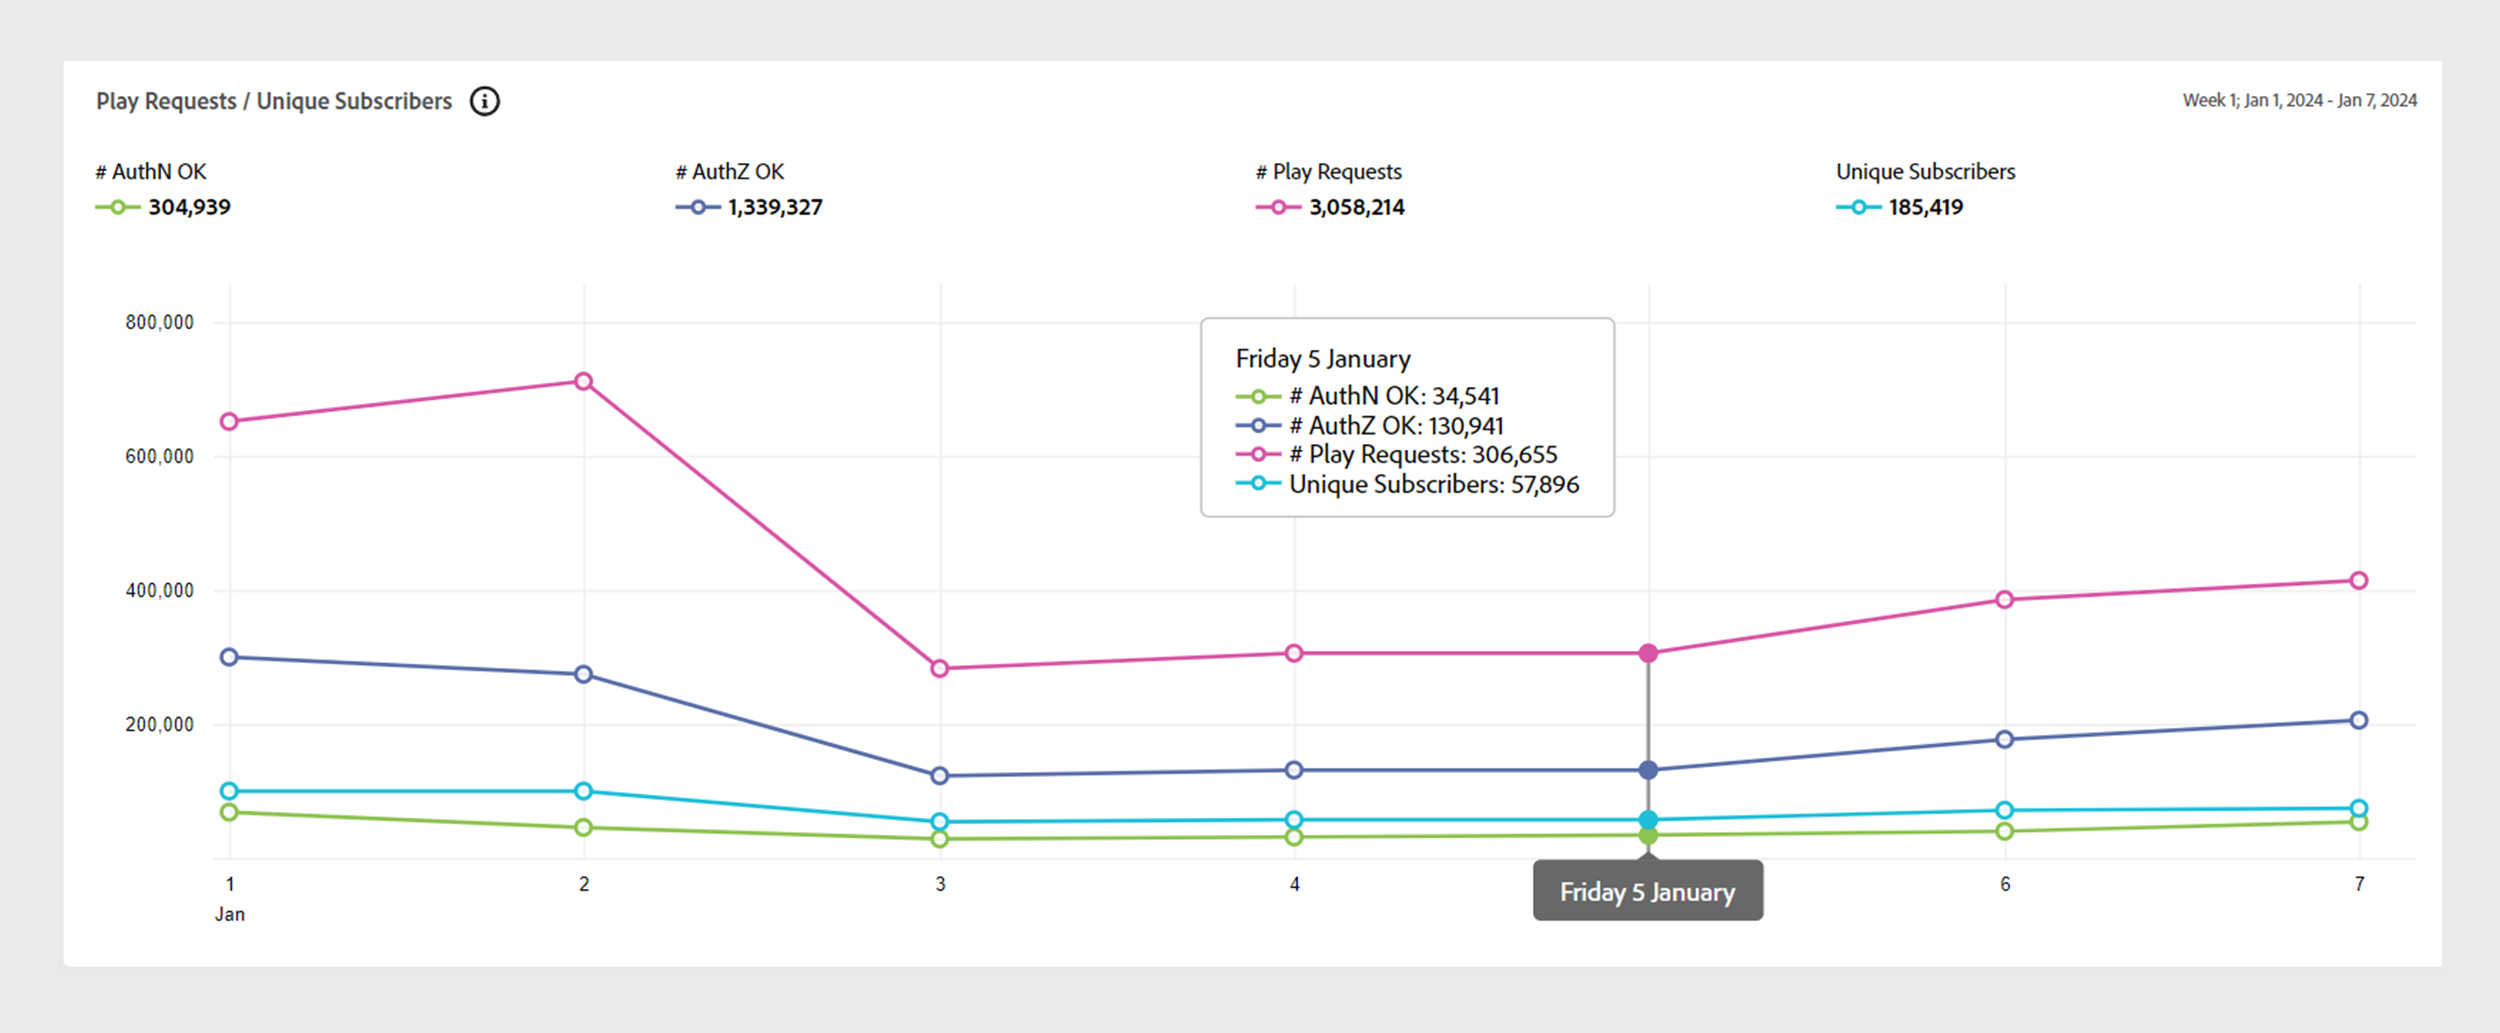
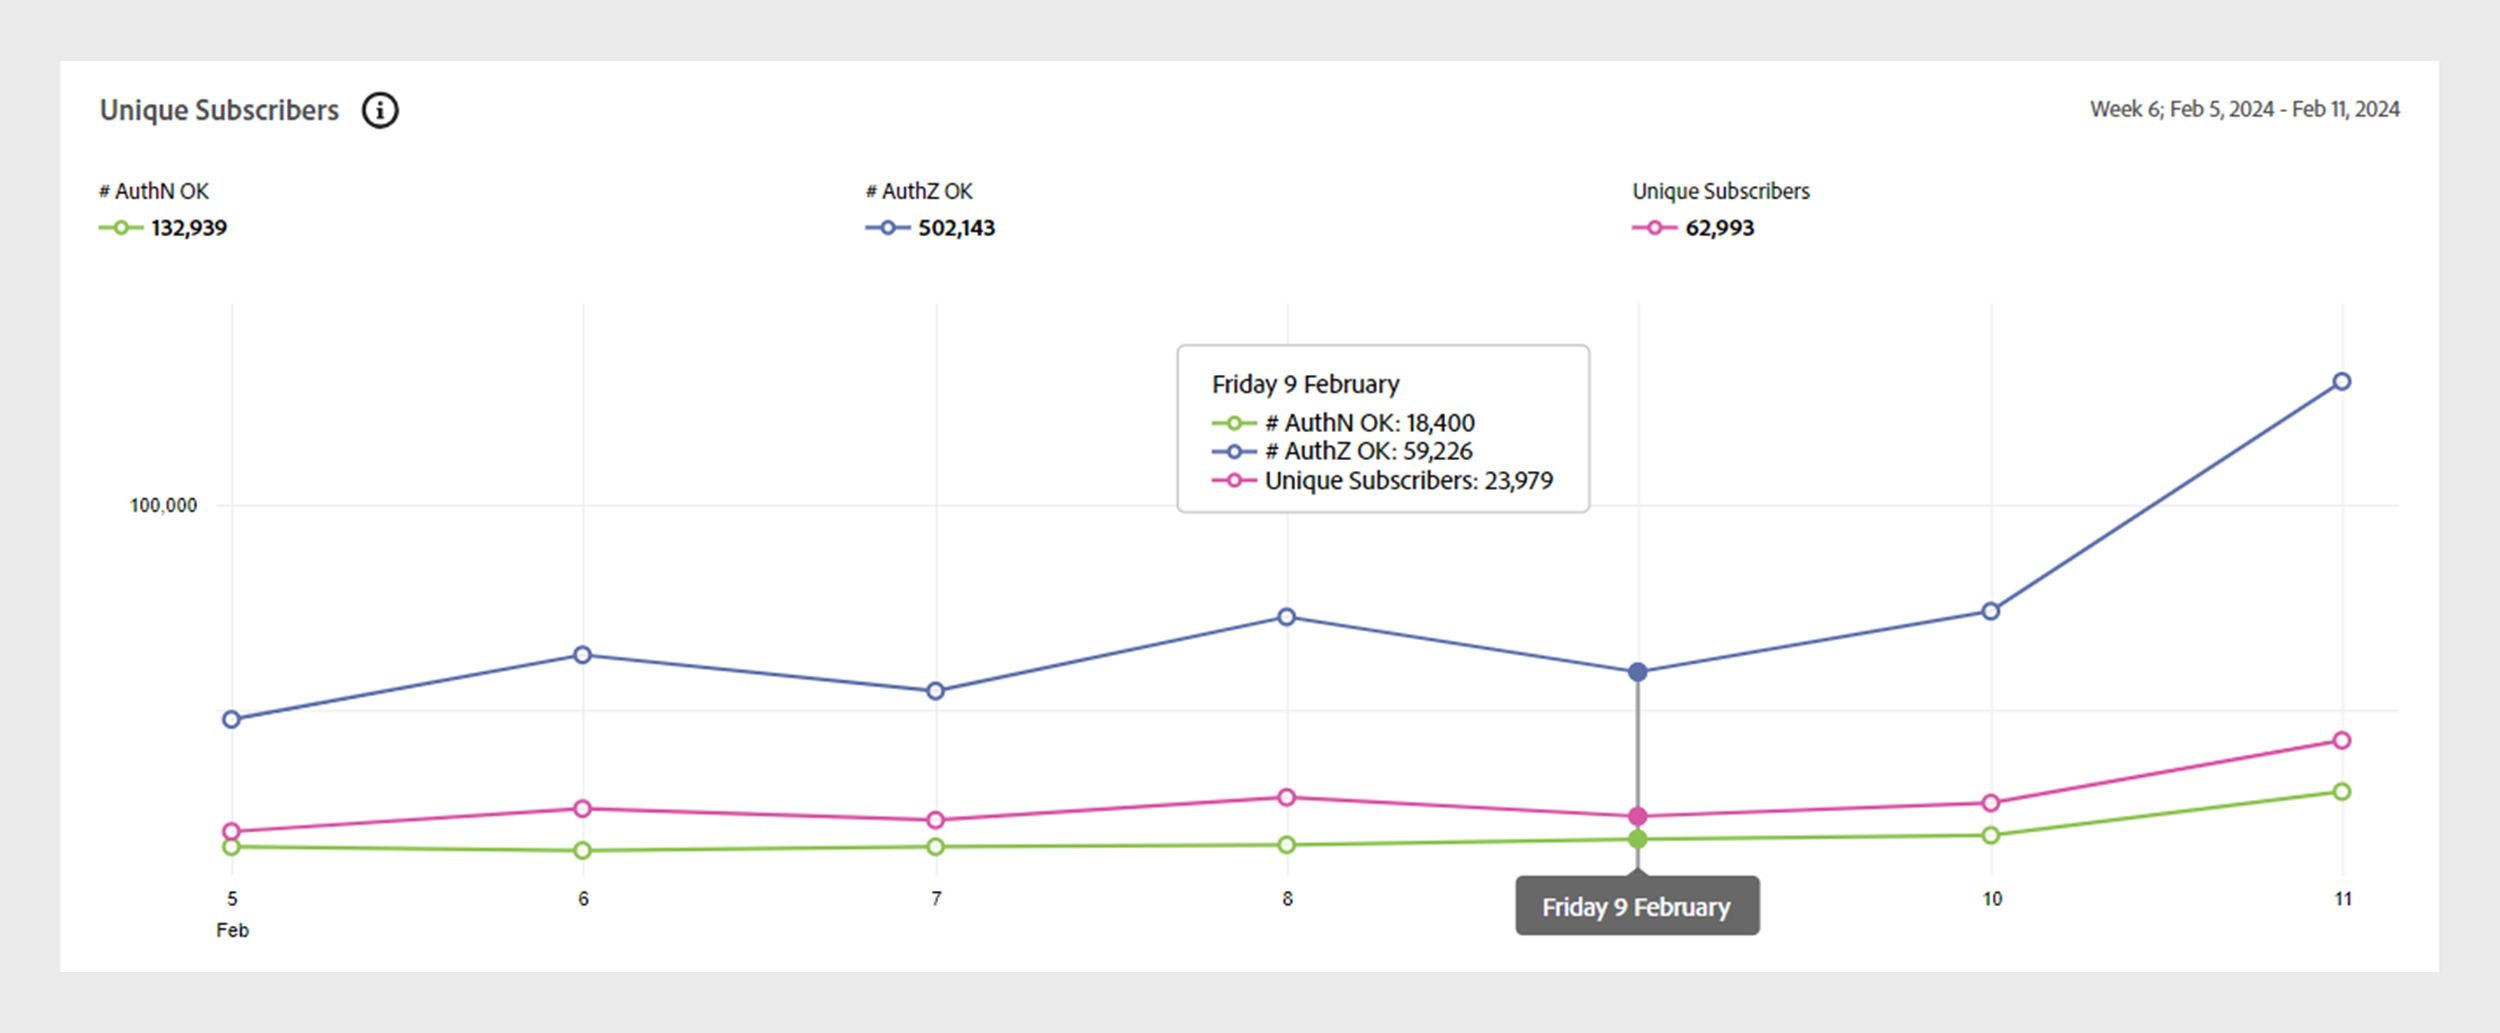
v1.2 doc update

diff --git a/help/accountiq/export-acc-information.md b/help/accountiq/export-acc-information.md
@@ -5,77 +5,89 @@ exl-id: df41ddd2-fde3-4861-abd4-6e32f0be9ea5
 ---
 # Export information for accounts with high sharing score {#export-account-info-high-score}
 
-[!UICONTROL Account IQ] gives you the option to export account sharing details for top 1000 subscriber accounts based on their [sharing probabilities](/help/accountiq/product-concepts.md#account-sharing-probability-def). The data in the exported CSV file is sorted in the decreasing order of the sharing probabilities of the subscriber accounts—of the selected MVPDs in the [segment](/help/accountiq/product-concepts.md#segment-def), for a [specified time interval](/help/accountiq/product-concepts.md#time-interval-def).
+[!UICONTROL Account IQ] allows you to export account sharing details for top 1000 subscriber accounts based on their [sharing probabilities](/help/accountiq/product-concepts.md#account-sharing-probability-def).
 
-The option to export the account sharing information is available on [General Usage Reports](/help/accountiq/general-usage-reports.md) and [Shared Accounts Reports](/help/accountiq/shared-acc-reports.md) pages.
+As a programmer and MVPD user, you can export the account sharing information for [Shared Accounts Reports](/help/accountiq/shared-acc-reports.md).
+
+To export the account sharing information of subscriber accounts for a specific segment, follow these steps:
+
+1. Log in with your authorized programmer or MVPD credentials.
+1. Navigate to the **Shared Accounts** tab under **Reports** section.
+1. Select a desired segment and time interval from segment and time interval panel. Know [how to select segment and time interval](segments-timeinterval.md).
+
+   If required, refer to the instructions for [creating a new segment](work-with-segments.md#create-new-segment) or [editing a segment](work-with-segments.md#create-new-segment).
+
+1. Select **[!UICONTROL Export top 1000 accounts]** option located in the upper-right corner of the segment and time interval panel.
+
+   ![Export top 1000 accounts](assets/export-top-1000-accounts.png)
+
+   *Figure: Select Export top 1000 accounts option*
+
+1. Choose the location to save the file on your local machine.
+
+   You can rename your file in the **File name**.
+
+1. Select **[!UICONTROL Save]** to begin the export procedure.
+
+   The system saves the statistical information for 1000 accounts with the highest sharing probabilities for a [specified time interval](/help/accountiq/product-concepts.md#time-interval-def) to the chosen location on your local machine.
+
+1. Find the saved file on your local device to open and access the data.
 
 >[!NOTE]
 >
->The numbers in the downloaded CSV file are different for General Usage and Shared Accounts reports pages. This is because the General Usage Reports page has additional filters for the programmers to select Threshold for number of devices, IPs and Zip codes. So the data exported from General Usage reports is based on the additional threshold filter applied.
-
-   ![Export option in General usage](assets/export.png)
-
-To export the account sharing information of subscribers:
-
-1. Define a desired segment following the steps in [How to define segment and select time interval](/help/accountiq/segments-timeinterval.md) for evaluation from [segment and time interval](/help/accountiq/segments-timeinterval.md) panel.
-
-1. Select the **[!UICONTROL Export top 1000 accounts]** option to export the account information for 1000 subscribers with highest sharing probability.
-
-When you use the export option, the statistics for 1000 accounts with the highest sharing probabilities (for a defined time interval) are downloaded to the Downloads folder of your local machine.
-
->[!NOTE]
->
->The downloaded CSV file can be opened using any application that reads CSV file, for example Microsoft Excel.
+>The report saves in CSV format. You can open the exported file using a preferred CSV viewer or editor like Microsoft Excel.
 
 ![exported data in csv format](assets/exported-csv.png)
 
-*Figure: Exported shared account data in CSV format*
+*Figure: Exported data in CSV format*
+
+The exported CSV file sorts the data in decreasing order based on the sharing probabilities of the subscriber accounts in the [segment](/help/accountiq/product-concepts.md#segment-def). 
 
 ## Columns in the exported report {#columns-in-export}
 
-**Week/ Month**
+**Week/Month**
 
-The week or the month, which you selected on the **[!UICONTROL Granularity and Time Interval]** option in the segment selector, for which the sharing statistics are sought.
+The selected week or month within the **[!UICONTROL Granularity and Time Interval]** option in the segment selector for which the sharing statistics are sought.
 
 **MVPD**
 
-If you are a programmer user, the column shows which MVPD does the subscriber account belong to.
+If you are a programmer user, the column shows which MVPD the subscriber account belongs to.
 
 **Subscriber Id**
 
-Specific account which we are talking about in a row.
+The unique identifier for the specific account that is discussed within a row.
 
 **Minimum # Devices**
 
-The actual number of devices (that stream content) is almost certainly greater than the minimum number of devices, specified for a particular account.
+The bare minimum number of devices from which users are actively streaming content.
 
 >[!NOTE]
 >
->The actual number of devices (that stream content) is certainly greater than the Minimum # of devices, specified for a particular account.
+>The actual number of devices streaming content is certainly greater than the minimum number of devices specified for a particular account.
 
 **Minimum # Persons**
 
-The absolute minimum number of people that were active streaming content using those devices.
+The bare minimum number of individuals actively streamed content using those devices.
 
 >[!NOTE]
 >
->The actual number of persons (that stream content) is almost certainly much greater than the Minimum # of persons, specified for a particular account.
+>The actual number of individuals streaming content is certainly greater than the minimum number of persons assigned to a particular account.
 
 **[!UICONTROL # IPs]**
 
-Number of IP addresses from which content is streamed.
+The number of IP addresses from which content is streamed.
 
 **[!UICONTROL # Locations]**
 
-Number of locations (based on zip code) from which content is streamed.
+The number of locations (based on zip code) from which content is streamed.
 
 **[!UICONTROL # Cities]**
 
-Number of cities where the streaming has taken place.
+The number of cities where the streaming activity has taken place.
 
 **[!UICONTROL # States]**
 
-Number of states where the streaming has taken place.
+The number of states where the streaming activity has taken place.
 
 **[!UICONTROL # Clusters]**
 
@@ -87,35 +99,37 @@ The maximum distance between the streaming locations associated with the account
 
 **[!UICONTROL # AuthN OK]**
 
-The number of times that the users have logged-in during the period, using that account.
+The number of logins users make during the specified period using that account.
 
 **[!UICONTROL # AuthZ OK]**
 
-Number of times an MVPD has authorized a stream, or granted access (to content), to that account.
+The number of times an MVPD has authorized a stream or granted access to content for that account.
 
 >[!NOTE]
 >
->The **[!UICONTROL # AuthZ OK]** is related to the **[!UICONTROL # Play Requests]**; it is smaller than the **[!UICONTROL # Play Requests]** because Adobe caches the authorizations that come for MVPDs typically for 24 hours.
+>The **[!UICONTROL # AuthZ OK]** is linked to **[!UICONTROL # Play Requests]**. It's smaller than **[!UICONTROL # Play Requests]** because Adobe typically caches the authorizations from MVPDs for approximately 24 hours.
 
 **[!UICONTROL # Play Requests]**
 
-The actual number of streams during the time period.
+The actual number of streams occurred during a specified time period.
+
+   >[!NOTE]
+   >
+   >The play requests column is'nt available for MVPD users.
 
 **[!UICONTROL # Channels]**
 
-Total number of different channels that the account has watched over the time period.
+The overall number of channels that the account has watched over a specified period.
 
 >[!NOTE]
 >
->**[!UICONTROL # Channels]** includes the channels that not necessarily belonged to the logged-in programmer.
+>**[!UICONTROL # Channels]** include the channels that may not belong to the logged-in programmer.
 >
->This number for the account showed up because the account watched your channel, but it also accessed other channels during that time period.
+>This number for the account includes your channel and other channels accessed during the specified period.
 
 **Usage Pattern**
 
-The numbers in this column are identifiers that map to one of the 14 patterns that we identify all the user accounts as.
-
-*Table: Usage pattern identifiers in exported CSV mapping with usage patterns*
+The values within these columns serve as identifiers corresponding to one of the 14 patterns we use to categorize all user accounts.
 
  | ID | 1 | 2 | 3 | 4 | 5 and 8 | 6 | 7 | 9 | 10 and 11 | 12 | 13 | 14 |
  |---|---|---|---|---|---|---|---|---|---|---|---|---|
@@ -123,10 +137,12 @@ The numbers in this column are identifiers that map to one of the 14 patterns th
 
 {style="table-layout:auto"}
 
+*Table: Usage pattern identifiers in exported CSV mapping with usage patterns*
+
 **Sharing Probability**
 
 Sharing probability is the probability that the specific account is sharing its credentials.
 
 >[!NOTE]
 >
-> The average of the sharing probability of all the accounts (in the selected segment) is used to compute the [sharing level](/help/accountiq/data-panels.md#sharing-level) of the [Aggregated sharing score](/help/accountiq/data-panels.md#aggregated-sharing).
+> The average of the sharing probability of all the accounts in the selected segment is used to compute the [sharing level](/help/accountiq/data-panels.md#sharing-level) of the [Aggregated sharing score](/help/accountiq/data-panels.md#aggregated-sharing).

diff --git a/help/accountiq/export-reports.md b/help/accountiq/export-reports.md
@@ -6,7 +6,7 @@ description: Learn how to export data panel reports on dashboard.
 
 The Dashboard in [!UICONTROL Account IQ] displays tables and graphs for analyzing credential sharing statistics of the subscriber accounts in the selected segment. Apart from viewing the sharing patterns, scores, and account usage metrics, you can also export reports from these tables.
 
-As Programmers and MVPDs, you can export the following data panel reports:
+As a programmer and MVPD user, you can export the following data panel reports:
 
 * [MVPDs and Programmers in segment](data-panels.md#mvpds-programmers-segment) 
 * [Number of accounts and usage by sharing probability level](data-panels.md#number-of-accounts-usage-sharing-probability)
@@ -16,11 +16,11 @@ To export data panel reports for a specific segment, follow these steps:
 1. Log in with your authorized programmer or MVPD credentials.
 1. Select a desired segment and time interval from segment and time interval panel. Know [how to select segment and time interval](segments-timeinterval.md).
 
-   If required, refer to the instructions for [creating a new segment](work-with-segments.md#create-new-segment) and [editing segment](work-with-segments.md#create-new-segment).
+   If required, refer to the instructions for [creating a new segment](work-with-segments.md#create-new-segment) or [editing a segment](work-with-segments.md#create-new-segment).
 
 1. Navigate to the data panel you want to export. 
 
-   For example, the **Number of accounts and usage by sharing probability level** is referred below.
+   For example, below we refer to **Number of accounts and usage by sharing probability level**.
 
    ![Export Number of accounts and usage by sharing probability level](assets/export-report.png){align="left"}
 
@@ -33,11 +33,16 @@ To export data panel reports for a specific segment, follow these steps:
 
 1. Select **[!UICONTROL Save]** to initiate the export process.
 
-1. Locate the exported file on your local machine to find the file. The report is saved in CSV format. 
+   The system saves the data for **Number of accounts and usage by sharing probability level** to the specified location on your local machine.
 
-   You can open the exported reports using a preferred CSV viewer or editor.
+1. Find the exported file on your local machine to open and access the data.
 
-The exported report is displayed below.
+>[!NOTE]
+>
+>The report saves in CSV format. You can open the exported reports using a preferred CSV viewer or editor like Microsoft Excel.
+
+
+The columns in the exported report are displayed below.
 
    ![Exported report](assets/exported-report.png){align="left"}
 

diff --git a/help/accountiq/introduction-dashboard.md b/help/accountiq/introduction-dashboard.md
@@ -35,14 +35,9 @@ The dashboard for MVPD users is slightly different from those of the programmer 
 
 The dashboard for programmer and MVPD users includes:
 
-* **Segments and time interval panel**: This panel enables you to select segment and time interval to generate account sharing reports, providing a summary of the selected segment. 
+* **Segments and time interval panel**: This panel enables you to select segment and time interval to generate account sharing reports, providing a summary of the selected segment. Know how to select [segments and time interval](/help/accountiq/segments-timeinterval.md).
 
 * **Page navigation**: These tabs allows you to navigate and explore across various sections and pages of Account IQ.
 
-* **Data panels**: The panels display account sharing reports in a form of tables and graphs and offer to export them as reports on your local machine. 
+* **Data panels**: The panels display account sharing reports in a form of tables and graphs and offer to export them as reports on your local machine. Know more about [data panels](/help/accountiq/data-panels.md) and how to [export data panel reports](/help/accountiq/export-datareports.md).
 
->[!MORELIKETHIS]
->
->* [Segments and time interval](/help/accountiq/segments-timeinterval.md)
->* [Data panels](/help/accountiq/data-panels.md) 
->* [Export reports](/help/accountiq/export-reports.md)

diff --git a/help/accountiq/general-usage-reports.md b/help/accountiq/general-usage-reports.md
@@ -46,12 +46,14 @@ The line graphs here gives you a view of the changes over time in values of Auth
 +++
 
 
-+++MVPD- **Play Requests / Unique Subscribers**
++++MVPD- **Unique Subscribers**
+
+The line graph for MVPD users is slightly different from those of the programmer users.
 
 ![](assets/mvpd-line-graph-gu.png)
 
 
-*Figure: Play Requests / Unique Subscribers for MVPD user* 
+*Figure: Unique Subscribers for MVPD user* 
 
 
 +++
